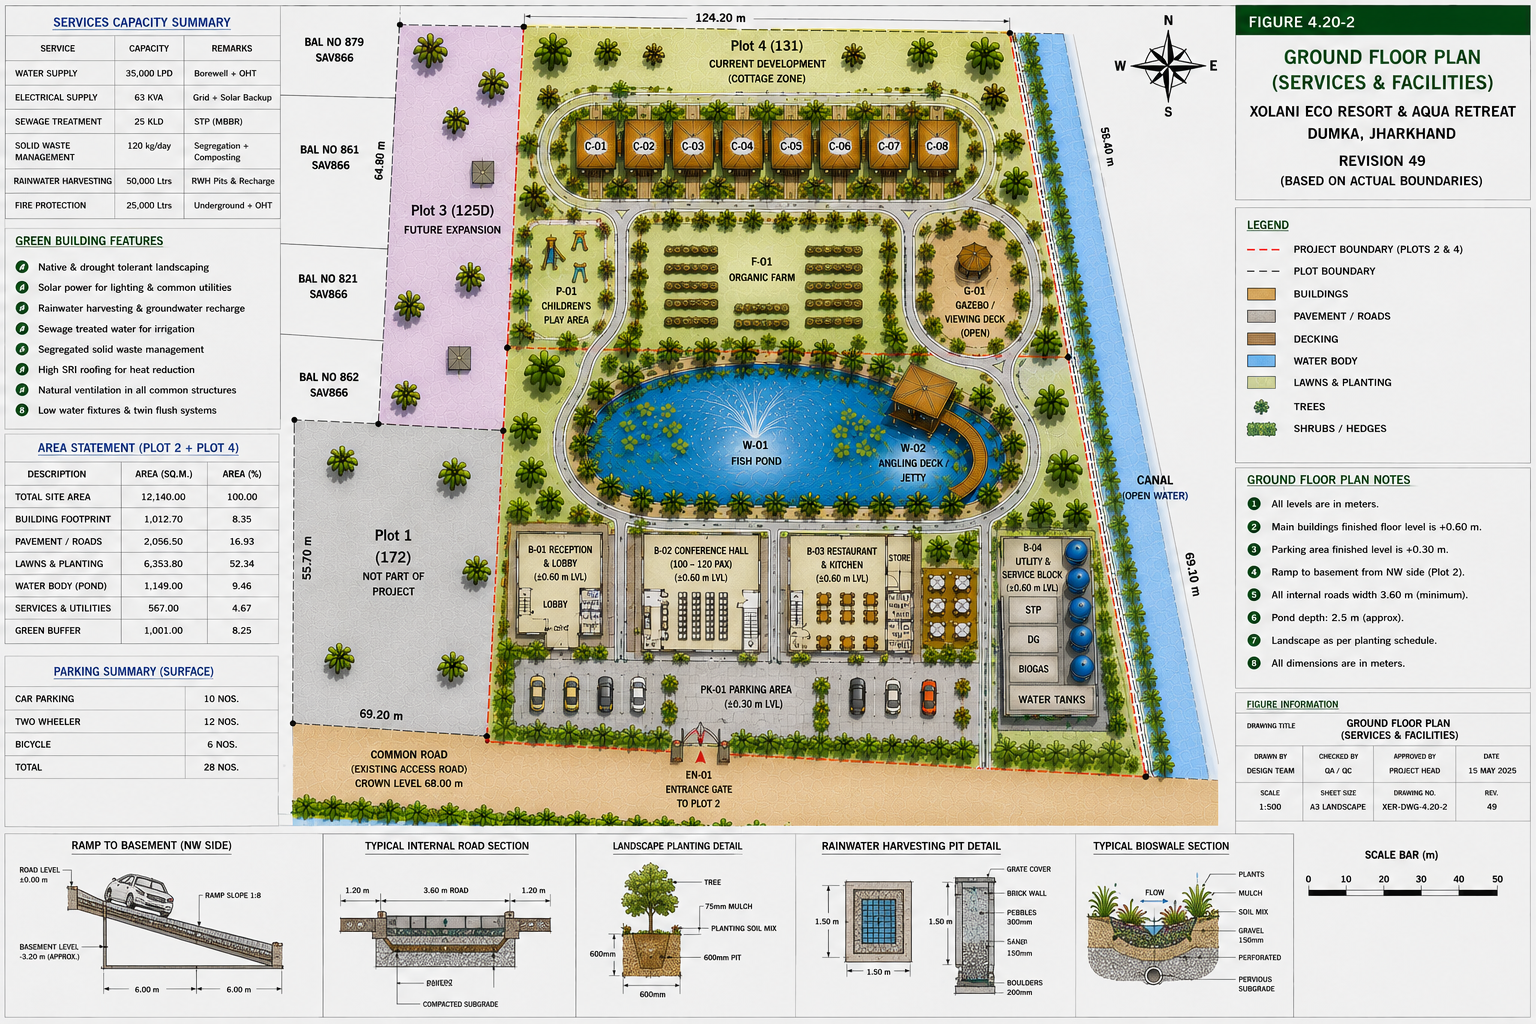
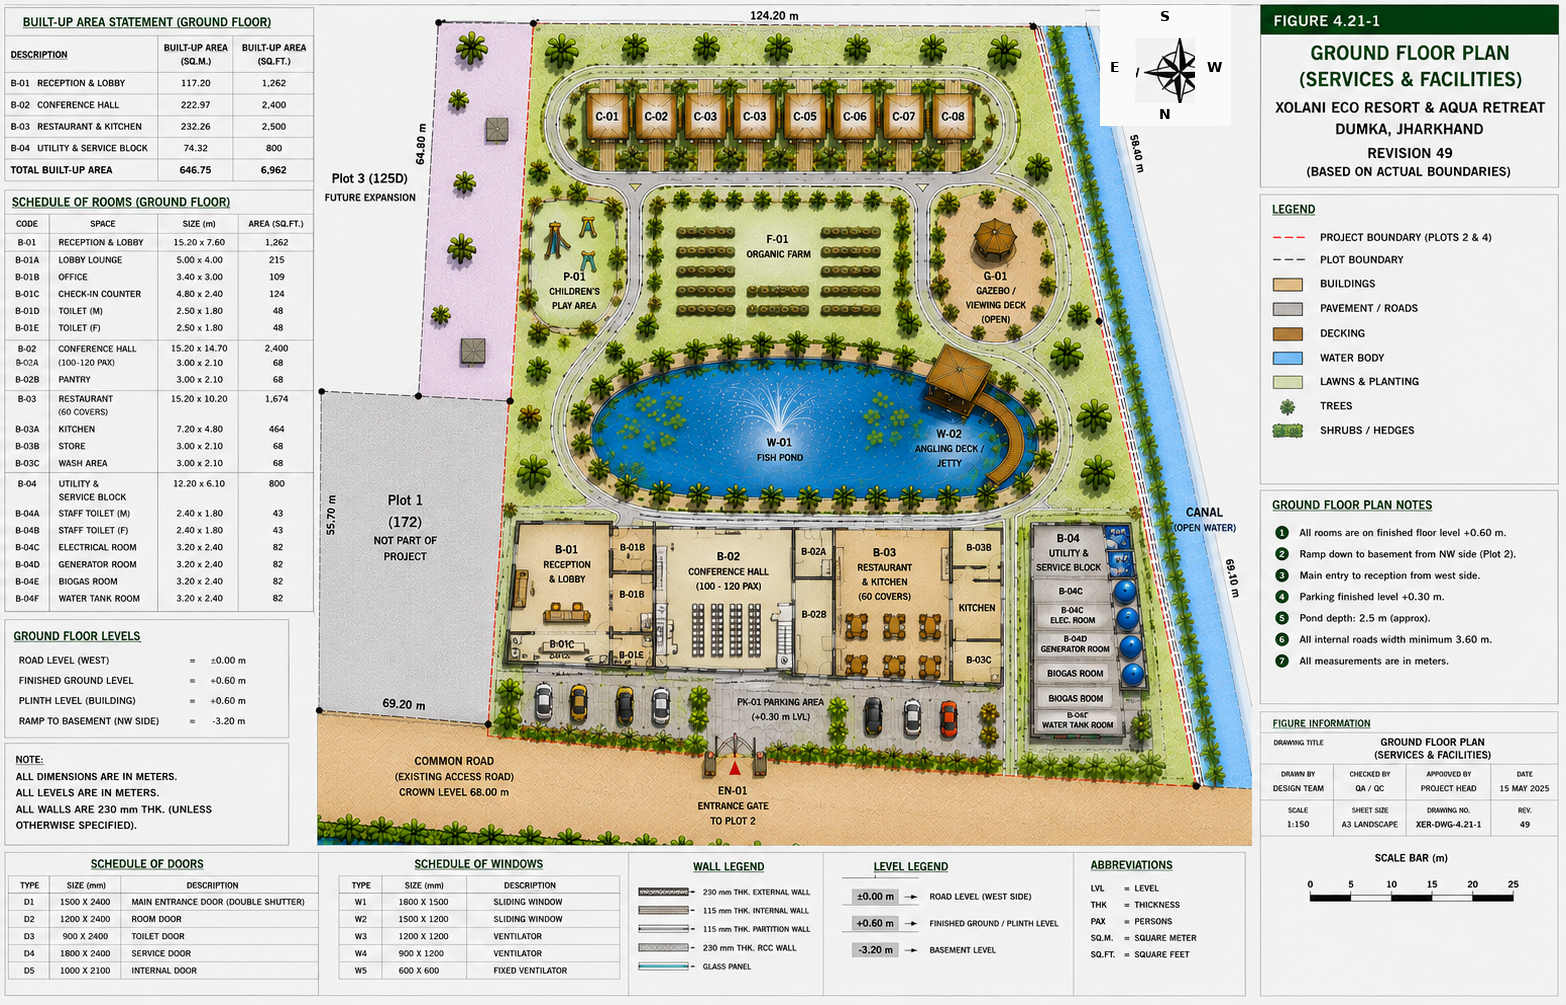
DAR-029 controlled drawing analysis and DDIF update

diff --git a/engineering/DAR/DAR-029/DAR-029_Drawing_Analysis_Report.md b/engineering/DAR/DAR-029/DAR-029_Drawing_Analysis_Report.md
@@ -1,0 +1,82 @@
+# DAR-029 - Drawing Analysis Report
+
+## Controlled Asset
+
+- Asset ID: AST-000029
+- Original Filename: ChatGPT Image Jul 17, 2026, 11_20_30 PM.png
+- Repository Path: drawings/Current/ChatGPT Image Jul 17, 2026, 11_20_30 PM.png
+- DAR Reference: DAR-029
+- Approved Drawing SHA256: 1971133445A72D4CBA1324C358F75D726CC81DF0058F029936FC18615491A910
+
+## Drawing Identity
+
+- Figure: Figure 4.21-1
+- Title: GROUND FLOOR PLAN (SERVICES & FACILITIES)
+- Project: XOLANI ECO RESORT & AQUA RETREAT
+- Location: Dumka, Jharkhand
+- Drawing Number: XER-DWG-4.21-1
+- Revision: 49
+- Date: 15 MAY 2025
+- Sheet: A3 Landscape
+- Scale: 1:150
+
+## Comparison Baseline
+
+AST-000028 and the preceding approved DAR sequence were used as controlled
+project-orientation comparison baselines.
+
+The substantive Ground Floor Plan (Services & Facilities), buildings,
+roads and circulation, parking, pond/canal, organic farm, children's play
+area, gazebo/viewing deck, plot boundaries, annotations, dimensions,
+schedules, legends, title block, revision, scale and other drawing content
+were retained.
+
+## Controlled Finding
+
+The source drawing compass was visually inspected and found inconsistent
+with the established controlled XOLANI project orientation.
+
+Source orientation:
+- North - up
+- South - down
+- East - right
+- West - left
+
+## Approved Correction
+
+The compass was corrected only.
+
+The approved project orientation is:
+
+- North - down
+- South - up
+- East - left
+- West - right
+
+No full-sheet rotation was performed.
+
+No site-plan mirroring was performed.
+
+No buildings, roads, parking, pond/canal, organic farm, children's play area,
+gazebo/viewing deck, plot boundaries, dimensions, annotations, schedules,
+legends, title block, revision, scale or other substantive drawing content
+were intentionally changed.
+
+The generated corrected drawing was reopened and inspected after generation.
+
+## Verification Status
+
+- Actual source drawing visually inspected: YES
+- Correction applied: YES
+- Corrected drawing visually re-inspected: YES
+- Original filename preserved: YES
+- Substantive drawing content intentionally altered: NO
+- Orientation now consistent with controlled project standard: YES
+
+## Approved Status
+
+APPROVED
+
+AST-000029 is controlled as Figure 4.21-1, GROUND FLOOR PLAN
+(SERVICES & FACILITIES), with the compass corrected to the established
+XOLANI project orientation.
